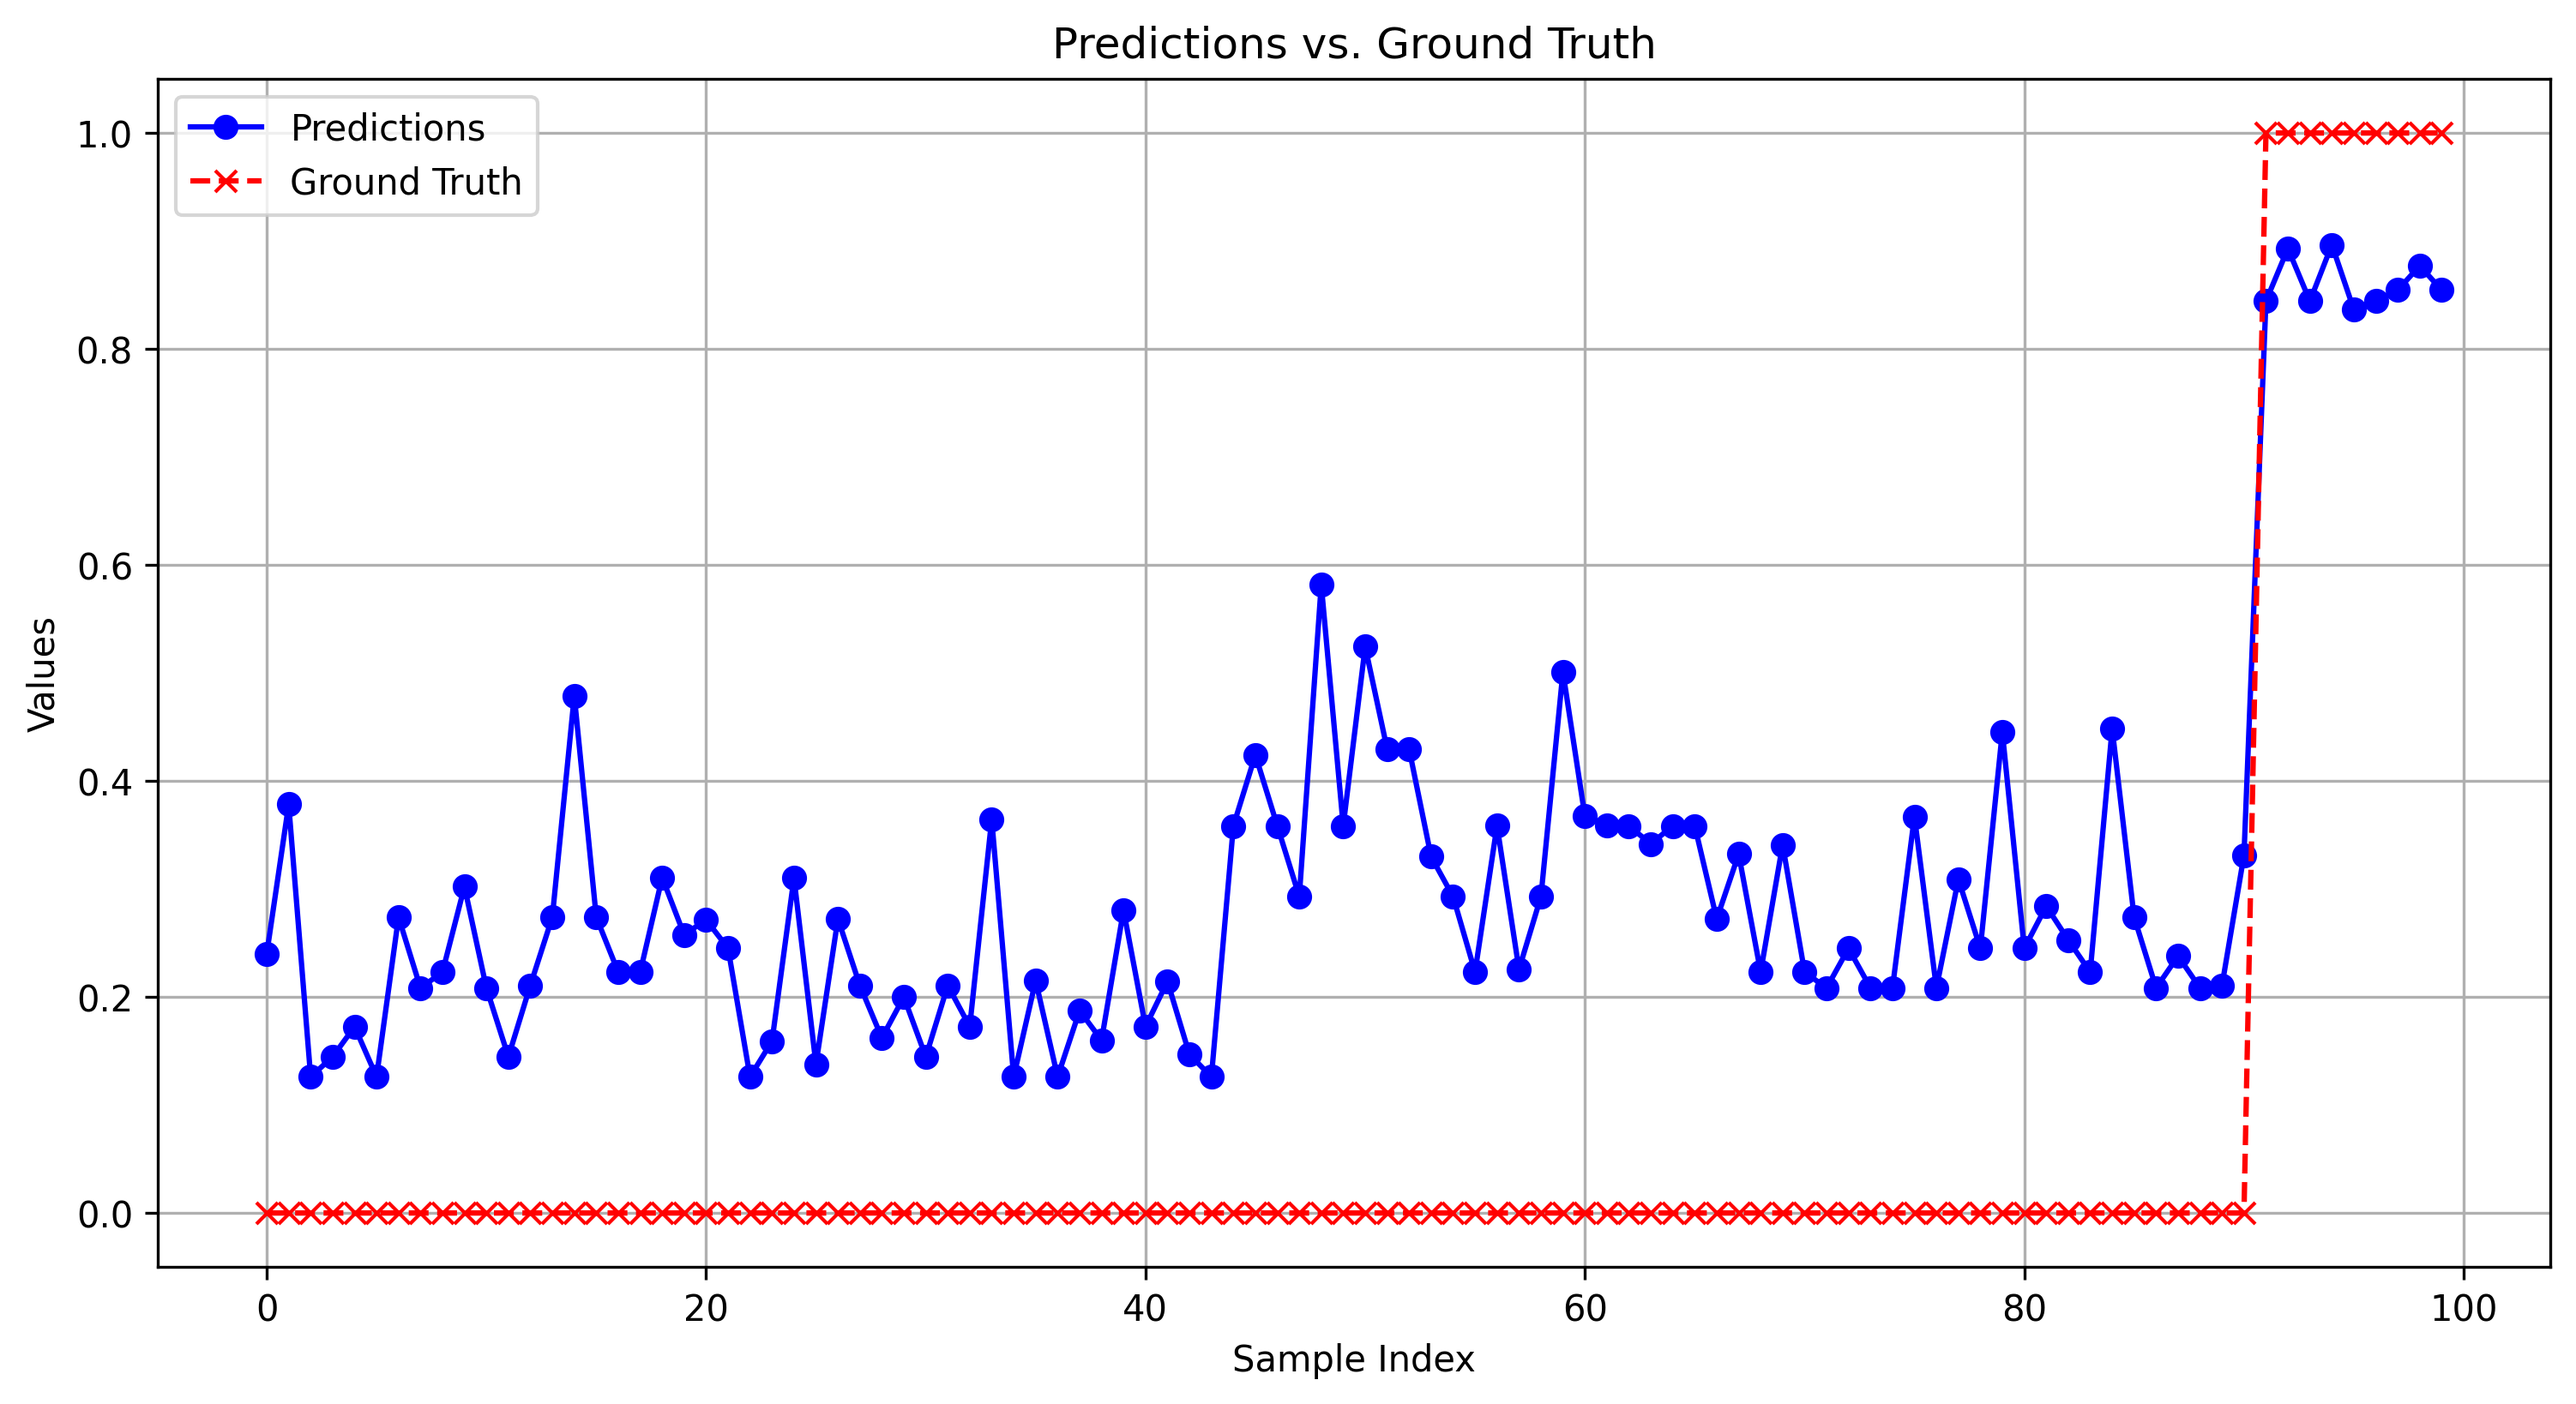
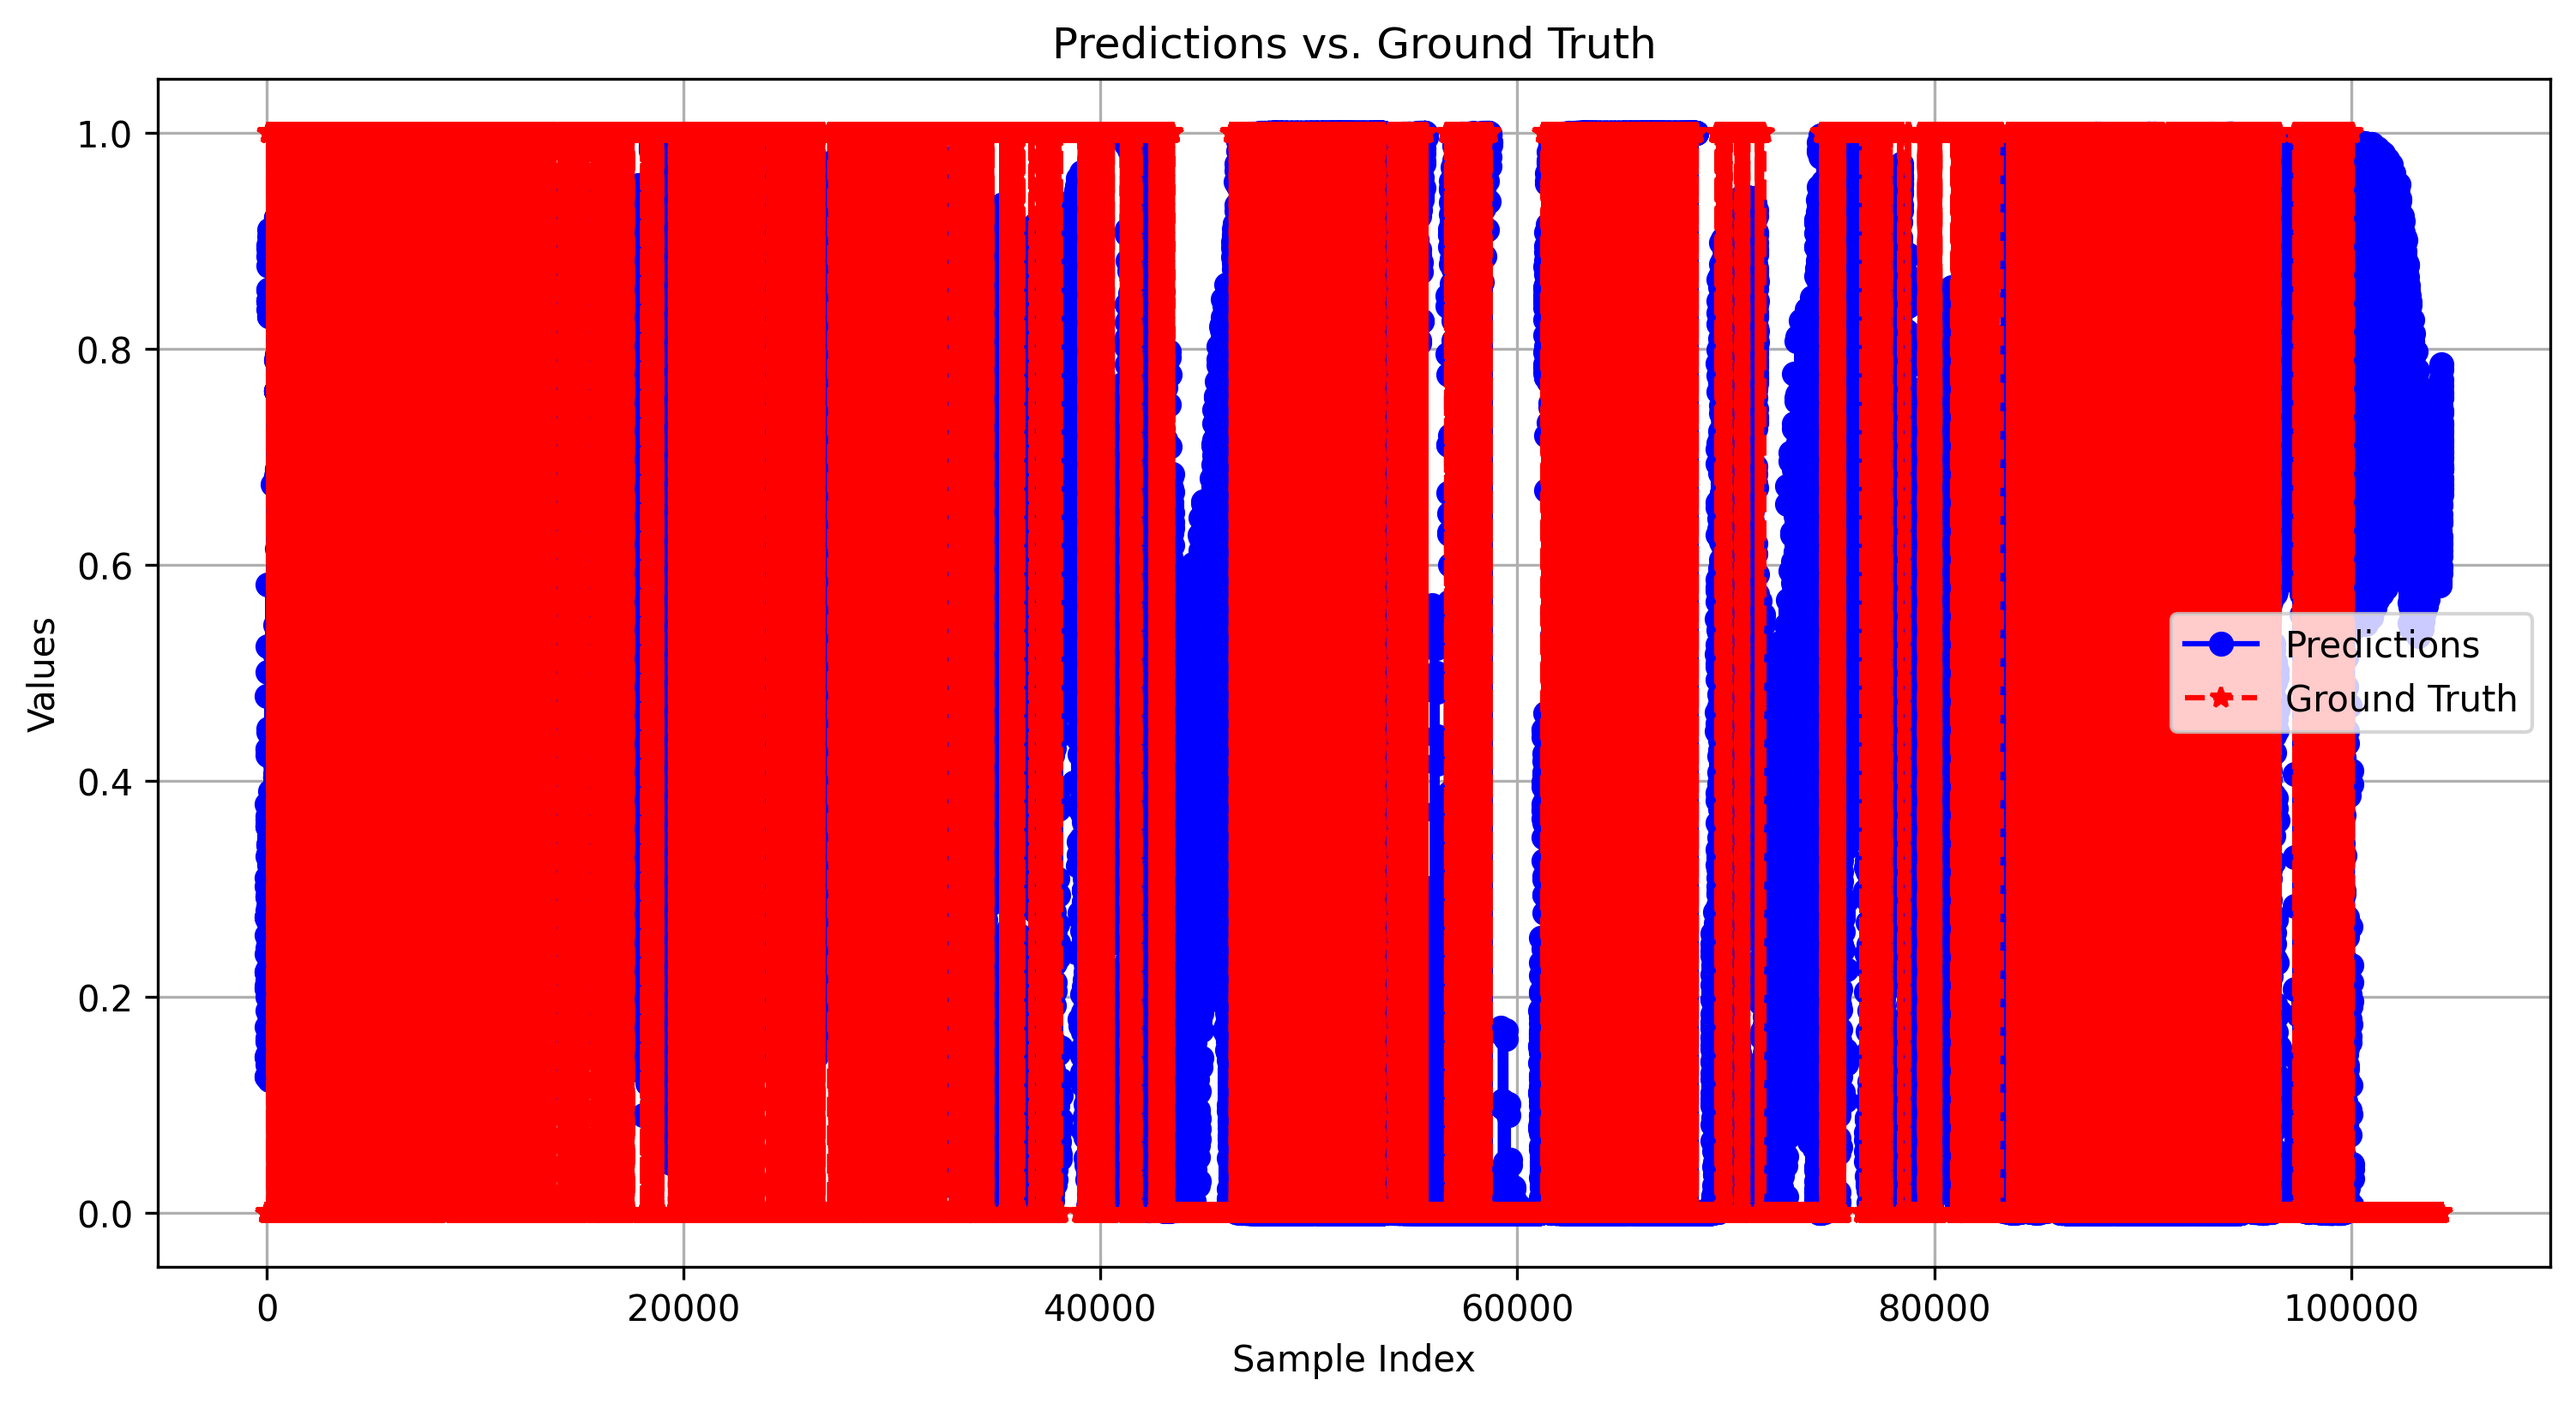
Initial Commit

diff --git a/demo.py b/demo.py
@@ -37,16 +37,16 @@ predictions = predictions.flatten()
 # y_test = y.flatten()
 
 # Select a subset (e.g., first 100 samples) for visualization if the dataset is large
-num_samples = 100
-predictions_subset = predictions[:num_samples]
-ground_truth_subset = y_test[:num_samples]
+# num_samples = 100
+# predictions_subset = predictions[:num_samples]
+# ground_truth_subset = y_test[:num_samples]
 plt.figure(figsize=(12, 6))
 
 # Plot predictions
-plt.plot(predictions_subset, label='Predictions', marker='o', linestyle='-', color='blue')
+plt.plot(predictions, label='Predictions', marker='o', linestyle='-', color='blue')
 
 # Plot ground truth
-plt.plot(ground_truth_subset, label='Ground Truth', marker='x', linestyle='--', color='red')
+plt.plot(y_test, label='Ground Truth', marker='*', linestyle='--', color='red')
 
 # Add labels, legend, and title
 plt.title('Predictions vs. Ground Truth')
@@ -74,4 +74,21 @@ plt.title('Confusion Matrix Heatmap')
 plt.xlabel('Predicted Class')
 plt.ylabel('True Class')
 plt.savefig('confusion_matrix_heatmap.png', dpi=300, bbox_inches='tight')
+plt.show()
+
+
+plt.figure(figsize=(10, 6))
+plt.scatter(range(len(y_test)), y_test, color='red', label='Ground Truth', alpha=0.6)
+plt.scatter(range(len(predictions)), predictions, color='blue', label='Predictions', alpha=0.6)
+
+# Add labels, legend, and title
+plt.title('Predictions vs Ground Truth (Point Graph)', fontsize=14)
+plt.xlabel('Sample Index', fontsize=12)
+plt.ylabel('Values', fontsize=12)
+plt.legend()
+plt.grid(True)
+
+plt.savefig('predictions_vs_ground_truth_scatter.png', dpi=300, bbox_inches='tight')
+
+# Show the plot
 plt.show()

diff --git a/realtime.py b/realtime.py
@@ -1,0 +1,37 @@
+import streamlit as st
+import numpy as np
+import tensorflow as tf
+from tensorflow.keras.models import load_model
+import pandas as pd
+
+# Load models
+autoencoder = load_model('autoencoder_model.h5', compile=False)
+bilstm = load_model('bilstm_model.h5')
+
+# Title
+st.title("Real-Time DDoS Classification")
+
+# Input data
+uploaded_file = st.file_uploader("Upload CSV for Prediction", type=["csv"])
+if uploaded_file:
+    data = pd.read_csv(uploaded_file)
+
+    # Process input
+    X = data.drop(columns=['label'])  # Ensure this matches your data
+    y = data['label']
+
+    encoder = autoencoder.get_layer('dense_1')  # Replace 'bottleneck' with your layer's name
+    bottleneck_model = tf.keras.Model(inputs=autoencoder.input, outputs=encoder.output)
+    bottleneck_output = bottleneck_model.predict(X)
+
+    timesteps = 1  # Adjust as needed
+    features = bottleneck_output.shape[1]  # Should be 6 from bottleneck layer
+    X_reshaped = bottleneck_output.reshape(bottleneck_output.shape[0], timesteps, bottleneck_output.shape[1])
+
+    predictions = bilstm.predict(X_reshaped)
+
+    # Display predictions
+    st.write("Predictions:", predictions)
+
+    # Visualize results
+    st.line_chart(predictions[:50])  # Display first 50 predictions for simplicity
